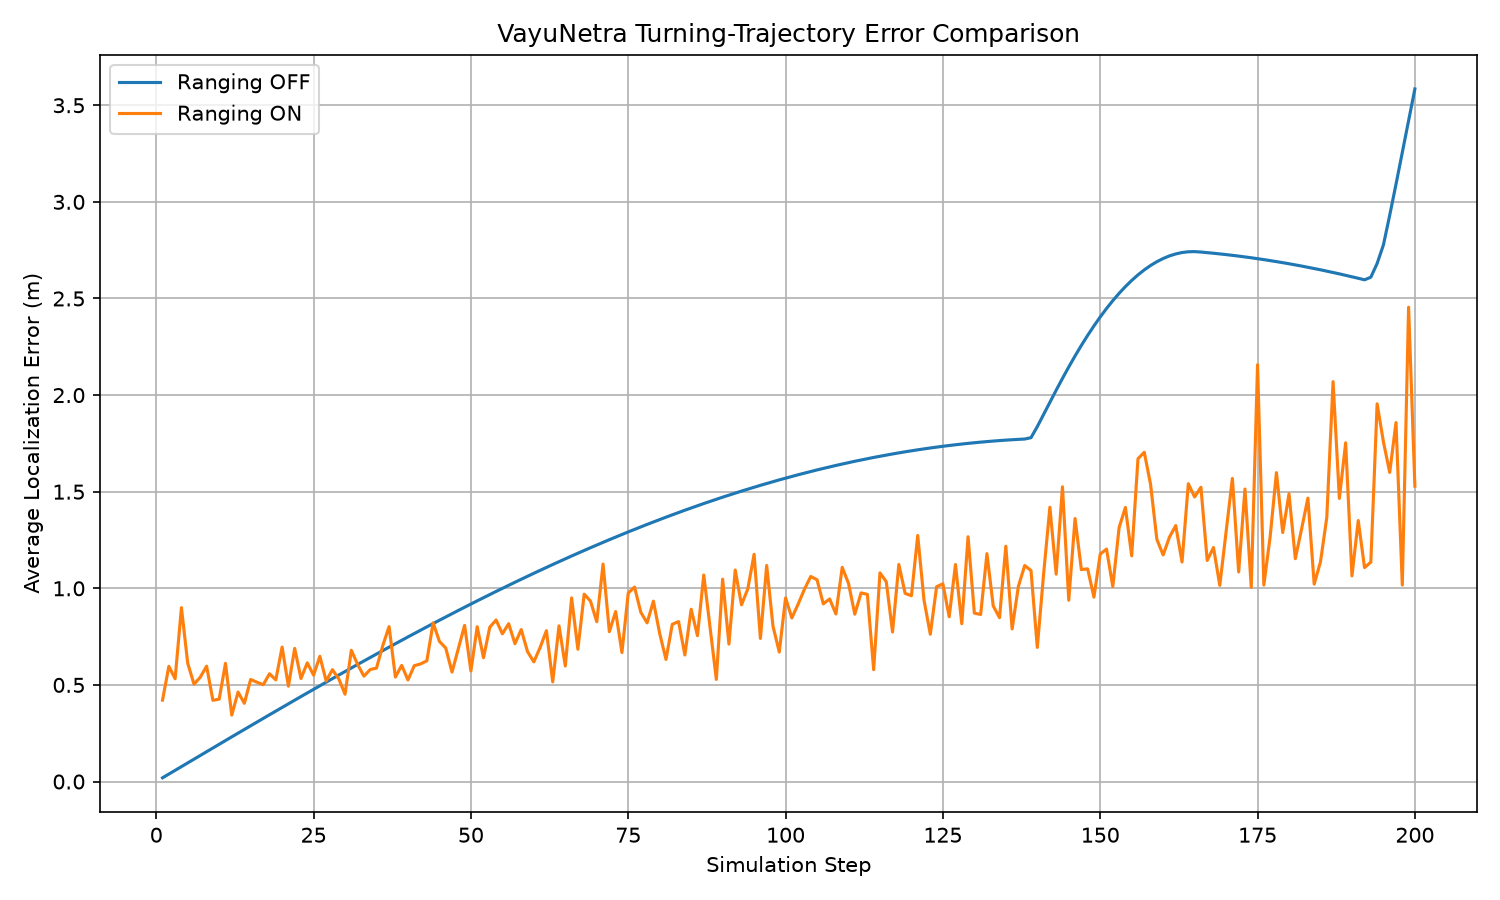
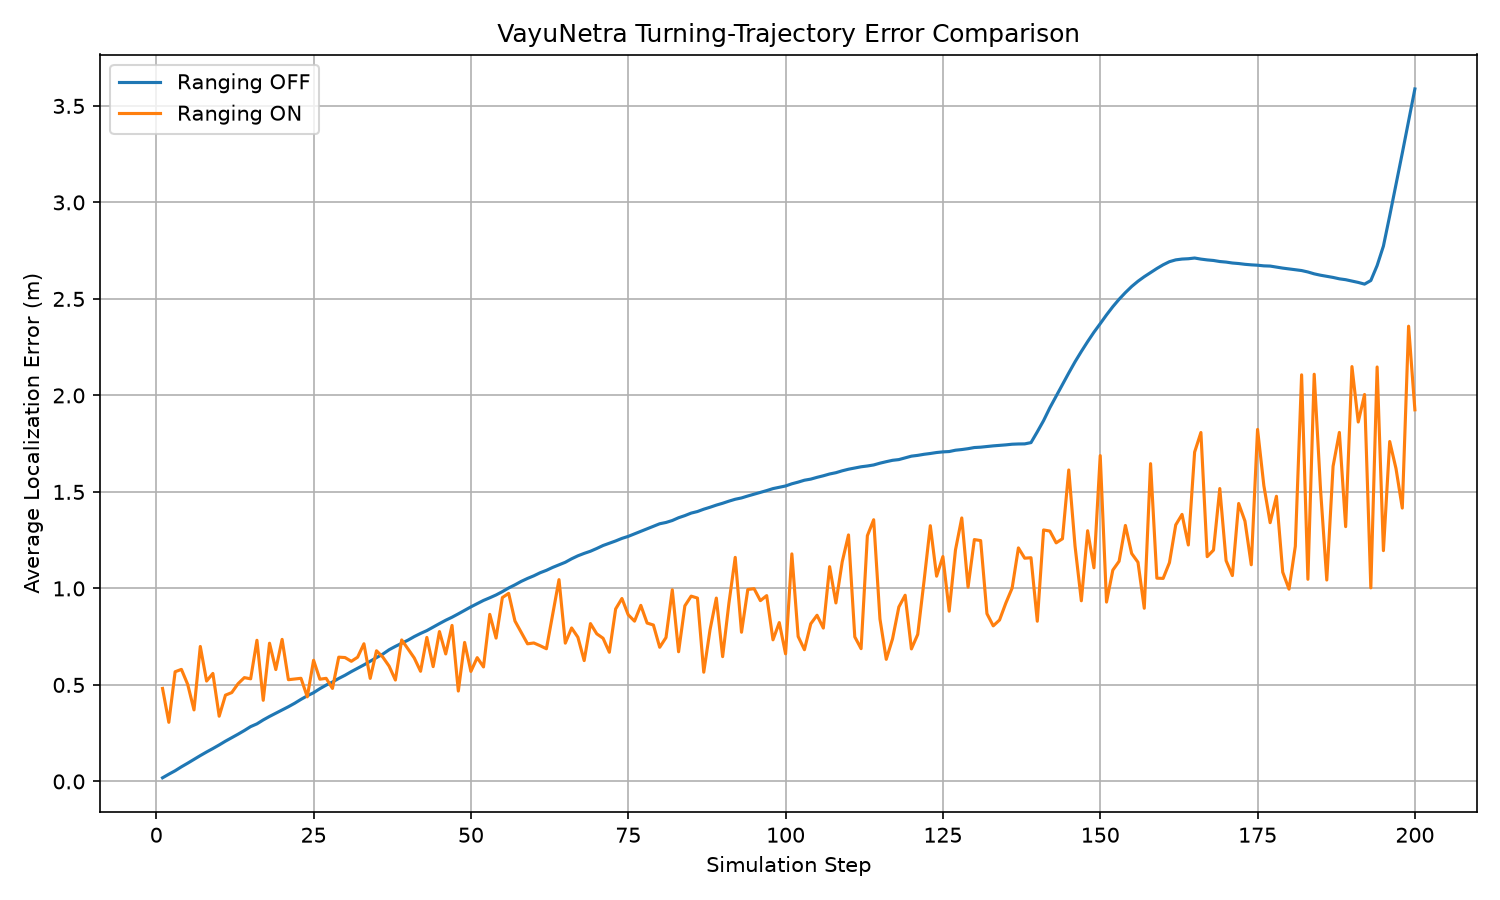
Add dead reckoning error model

diff --git a/localize/multi_drone_simulation.py b/localize/multi_drone_simulation.py
@@ -31,7 +31,12 @@ RANGE_NOISE_STD = 1.0
 
 RANGE_FAILURE_PROBABILITY = 0.05
 
+# Dead-reckoning systematic bias.
+# The actual error model is implemented inside DeadReckoner.
 DEAD_RECKONING_BIAS = 0.02
+
+# Random-walk noise used by DeadReckoner.
+DEAD_RECKONING_RANDOM_WALK_STD = 0.005
 
 RANDOM_SEED = 42
 
@@ -84,7 +89,7 @@ BASE_VELOCITIES = np.array([
 # CREATE DRONES
 # ==========================================================
 
-def create_drones():
+def create_drones(rng):
 
     drones = []
 
@@ -101,13 +106,16 @@ def create_drones():
             # Current true velocity
             "velocity": BASE_VELOCITIES[i].copy(),
 
-            # Independent dead-reckoning estimate
+            # Dead-reckoning estimate
             "dead_reckoning_position":
                 initial_position.copy(),
 
             # Dead reckoner object
             "dead_reckoner": DeadReckoner(
-                initial_position=initial_position
+                initial_position=initial_position,
+                bias=DEAD_RECKONING_BIAS,
+                random_walk_std=DEAD_RECKONING_RANDOM_WALK_STD,
+                rng=rng
             ),
 
             # Localization result
@@ -199,6 +207,7 @@ def simulate_ranges(drone, anchors, rng):
             )
         )
 
+        # Distance cannot be negative
         noisy_range = max(
             0.1,
             noisy_range
@@ -238,7 +247,7 @@ def run_experiment(ranging_on):
 
     rng = np.random.default_rng(RANDOM_SEED)
 
-    drones = create_drones()
+    drones = create_drones(rng)
 
     localizers = [
         Localizer(
@@ -288,18 +297,11 @@ def run_experiment(ranging_on):
             # 3. UPDATE DEAD RECKONING
             # ------------------------------------------------
 
-            measured_velocity = (
-                drone["velocity"]
-                * (1.0 + DEAD_RECKONING_BIAS)
-            )
-
             drone["dead_reckoning_position"] = (
-                drone["dead_reckoning_position"]
-                + measured_velocity * DT
-            )
-
-            drone["dead_reckoner"].position = (
-                drone["dead_reckoning_position"].copy()
+                drone["dead_reckoner"].update(
+                    velocity=drone["velocity"],
+                    dt=DT
+                )
             )
 
             # ------------------------------------------------
@@ -550,6 +552,7 @@ def create_trajectory_plot(
 def run_simulation():
 
     print()
+
     print(
         "VAYUNETRA TURNING-TRAJECTORY "
         "LOCALIZATION BENCHMARK"
@@ -583,6 +586,16 @@ def run_simulation():
     print(
         f"Range failure probability: "
         f"{RANGE_FAILURE_PROBABILITY * 100:.1f}%"
+    )
+
+    print(
+        f"Dead-reckoning bias: "
+        f"{DEAD_RECKONING_BIAS}"
+    )
+
+    print(
+        f"Dead-reckoning random-walk STD: "
+        f"{DEAD_RECKONING_RANDOM_WALK_STD}"
     )
 
     print()
@@ -652,6 +665,7 @@ def run_simulation():
     # ======================================================
 
     print()
+
     print("----------------------------------------")
     print("RANGING OFF")
     print("----------------------------------------")
@@ -667,6 +681,7 @@ def run_simulation():
     )
 
     print()
+
     print("----------------------------------------")
     print("RANGING ON")
     print("----------------------------------------")
@@ -682,6 +697,7 @@ def run_simulation():
     )
 
     print()
+
     print("----------------------------------------")
     print("TURNING-TRAJECTORY COMPARISON")
     print("----------------------------------------")
@@ -716,6 +732,7 @@ def run_simulation():
     )
 
     print()
+
     print("----------------------------------------")
     print("TURNING-TRAJECTORY PLOTS SAVED")
     print("----------------------------------------")
@@ -735,6 +752,7 @@ def run_simulation():
     # ======================================================
 
     print()
+
     print("----------------------------------------")
     print("FINAL RANGING-ON DRONE POSITIONS")
     print("----------------------------------------")

diff --git a/localize/dead_reckoning.py b/localize/dead_reckoning.py
@@ -3,26 +3,77 @@ import numpy as np
 
 class DeadReckoner:
     """
-    Simple 2D dead-reckoning model.
-
-    The position is updated using the supplied velocity
-    and time step.
+    2D dead-reckoning model with a fixed velocity bias
+    and per-step random-walk noise.
     """
 
-    def __init__(self, initial_position=(0.0, 0.0)):
-        self.position = np.asarray(initial_position, dtype=float)
+    def __init__(
+        self,
+        initial_position=(0.0, 0.0),
+        bias=0.02,
+        random_walk_std=0.005,
+        rng=None
+    ):
+        self.position = np.asarray(
+            initial_position,
+            dtype=float
+        )
+
+        # Fixed velocity bias for this dead-reckoner.
+        self.bias = float(bias)
+
+        # Small random error added at every update.
+        self.random_walk_std = float(
+            random_walk_std
+        )
+
+        # Optional reproducible random generator.
+        self.rng = rng
 
     def update(self, velocity=(0.0, 0.0), dt=1.0):
-        velocity = np.asarray(velocity, dtype=float)
+        velocity = np.asarray(
+            velocity,
+            dtype=float
+        )
 
-        self.position = self.position + velocity * dt
+        # Fixed systematic error.
+        measured_velocity = (
+            velocity * (1.0 + self.bias)
+        )
+
+        # Per-step random walk.
+        if self.rng is not None:
+            random_error = self.rng.normal(
+                0.0,
+                self.random_walk_std,
+                size=velocity.shape
+            )
+        else:
+            random_error = np.zeros_like(
+                velocity
+            )
+
+        measured_velocity = (
+            measured_velocity + random_error
+        )
+
+        self.position = (
+            self.position
+            + measured_velocity * dt
+        )
 
         return self.position.copy()
 
 
 if __name__ == "__main__":
 
-    reckoner = DeadReckoner()
+    rng = np.random.default_rng(42)
+
+    reckoner = DeadReckoner(
+        bias=0.02,
+        random_walk_std=0.005,
+        rng=rng
+    )
 
     print("DEAD RECKONING TEST")
     print("----------------------------------------")
@@ -30,7 +81,7 @@ if __name__ == "__main__":
     for step in range(1, 11):
 
         position = reckoner.update(
-            velocity=(1.05, 0.52)
+            velocity=(1.0, 0.5)
         )
 
         actual_position = np.array([
@@ -38,7 +89,9 @@ if __name__ == "__main__":
             float(step) * 0.5
         ])
 
-        error = np.linalg.norm(position - actual_position)
+        error = np.linalg.norm(
+            position - actual_position
+        )
 
         print(
             f"Step: {step} | "
